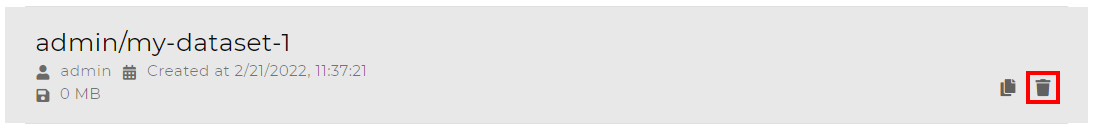
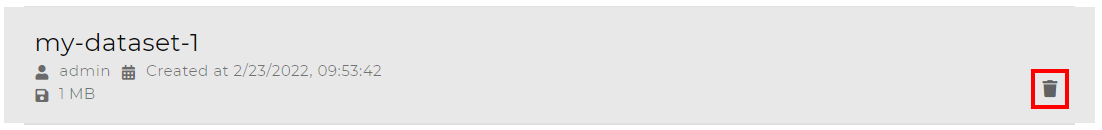
Update the dataset page

diff --git a/user/dataset.rst b/user/dataset.rst
@@ -5,13 +5,27 @@ Dataset
 A dataset is a collection of data organized in files and directories.
 Dataset files could be used in labs for model training and validation.
 
-TODO: Dataset modeling (owner, permission, naming)
+There are system datasets and project-scoped datasets.
+The datasets page lists all projects visible to the user,
+where the system datasets are displayed in the dataset name,
+and the project-scoped datasets are displayed in the beloning project's ID followed by the dataset name.
+
+.. image:: /_static/imgs/user/dataset/view_all_datasets.png
+    :width: 600
+
+The project datasets page lists all project-scoped datasets for the current project.
+A system dataset is not accessible by a project before it is :ref:`added as a project-scoped dataset <create-and-manage-project-scoped-dataset>`.
+
+.. image:: /_static/imgs/user/dataset/view_project_datasets.png
+    :width: 600
 
 A dataset could have multiple versions by creating *snapshots*.
 TODO: restoration
 
-Create and Manage a Dataset
-===========================
+.. _create-and-manage-project-scoped-dataset:
+
+Create and Manage a Project-Scoped Dataset
+==========================================
 
 To create a database:
 
@@ -104,8 +118,8 @@ To download a file from the dataset:
 #) Click on the *DELETE* button in the top toolbar or the *download* button in the preview area.
 #) Click on the *OK* button.
 
-Clone a Dataset
-===============
+Create a Project-Scoped Dataset by Cloning
+==========================================
 
 In situations where modifications to a read-only dataset (such as a built-in dataset) is needed,
 or to leverage a dataset that belongs to another project,
@@ -131,10 +145,10 @@ To clone a dataset:
 #) Click on the *IMPORT* button.
 
     .. image:: /_static/imgs/user/dataset/copy_dataset_1.png
-        :width: 480
+        :width: 300
 
 .. note::
-    The cloned dataset will belong to the current project and accessible by the labs and pipeline in the same project.
+    The cloned dataset will belong to the current project and be accessible by the labs and pipeline in the same project.
 
 Delete a Dataset
 ================
@@ -146,9 +160,11 @@ To delete a dataset:
     .. image:: /_static/imgs/user/dataset/del_dataset_1.png
         :width: 480
 
-    TODO: update
-
 #) Click on the *OK* button.
+
+.. note::
+    Deleting a mounted dataset does not delete the dataset contents;
+    it only removes the linkage to the remote space.
 
 Preview Bounding Box Images in a Dataset
 ========================================
